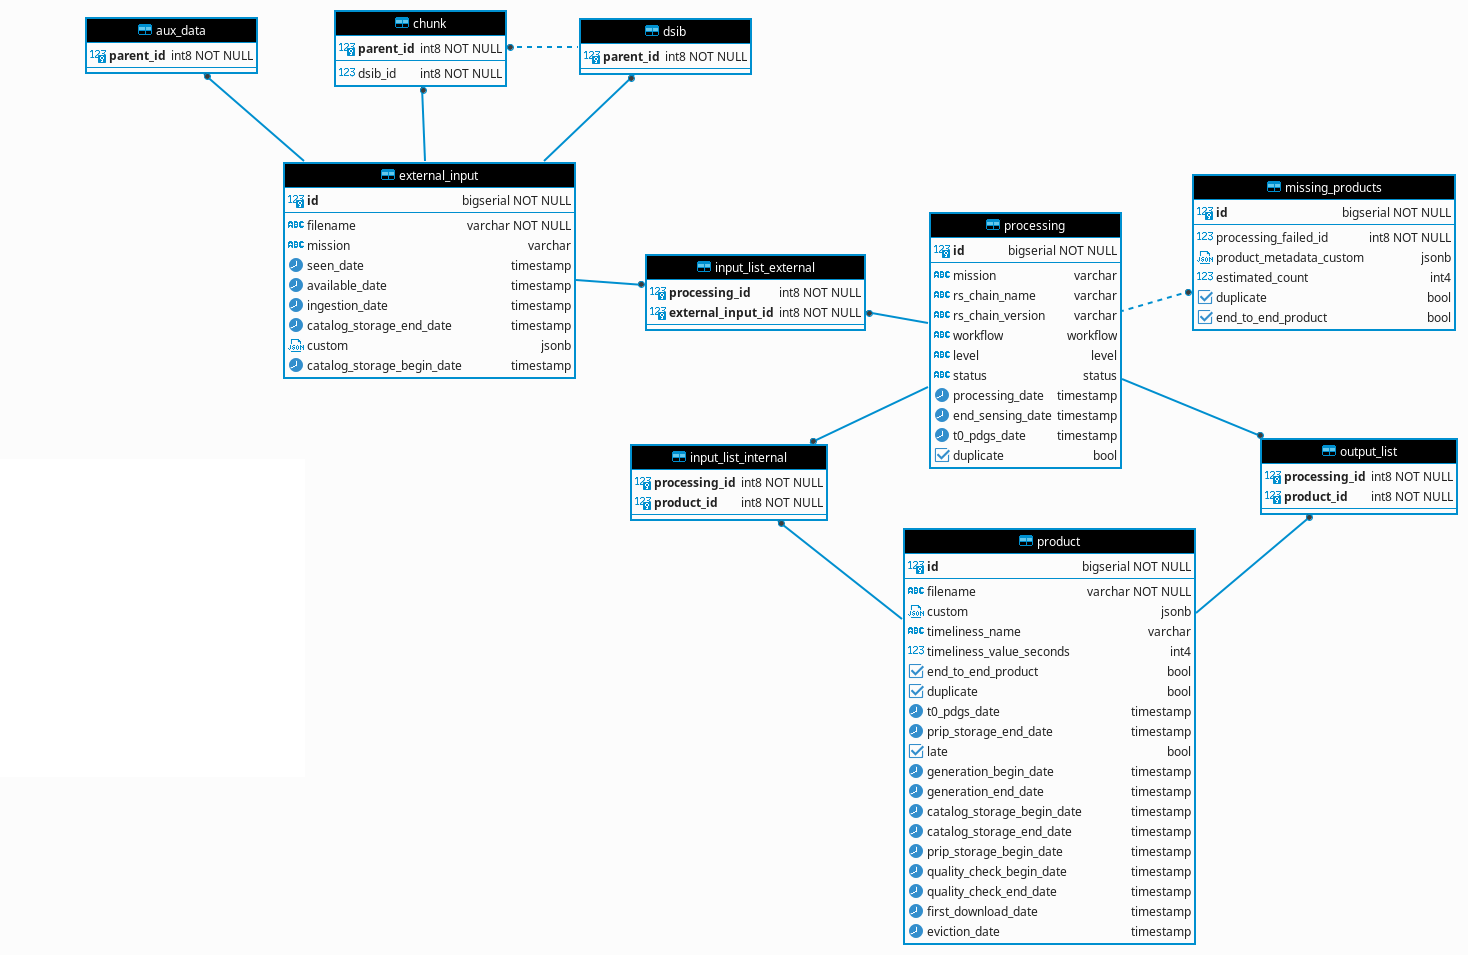
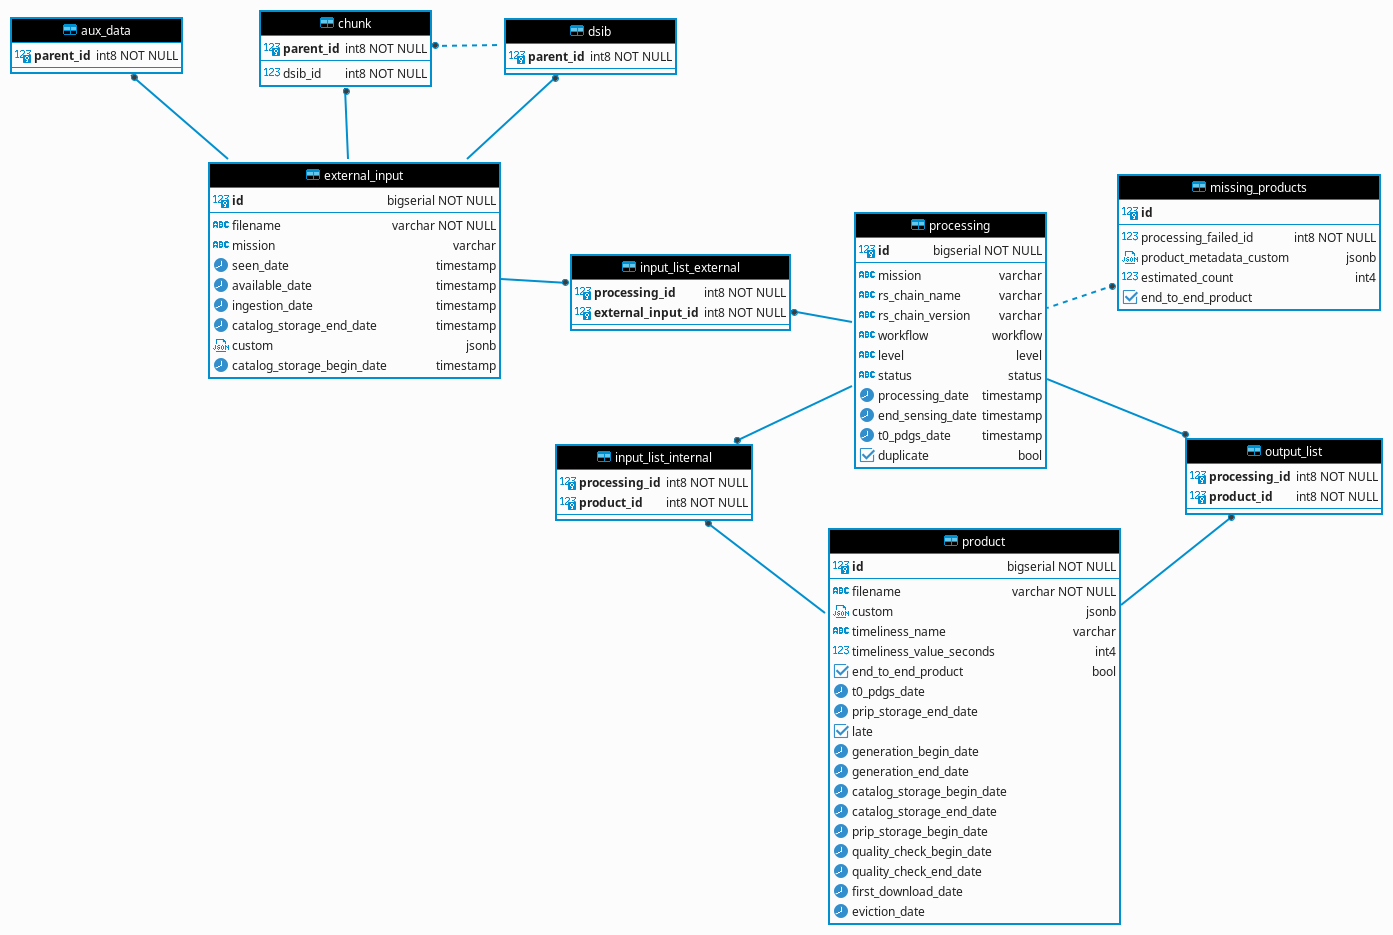
feat(484/485): Set last rule to detect duplicate processing

diff --git a/trace-processor/applications/sink/trace-ingestor/src/main/java/eu/csgroup/coprs/monitoring/traceingestor/TraceIngestorSink.java b/trace-processor/applications/sink/trace-ingestor/src/main/java/eu/csgroup/coprs/monitoring/traceingestor/TraceIngestorSink.java
@@ -14,6 +14,7 @@ import org.slf4j.MDC;
 import org.springframework.beans.PropertyAccessorFactory;
 import org.springframework.messaging.Message;
 
+import java.lang.management.ManagementFactory;
 import java.time.Duration;
 import java.time.Instant;
 import java.util.function.Consumer;
@@ -34,7 +35,8 @@ public class TraceIngestorSink implements Consumer<Message<FilteredTrace>> {
 
     @Override
     public void accept(Message<FilteredTrace> message) {
-        final Instant start = Instant.now();
+        final var mxBean = ManagementFactory.getThreadMXBean();
+        long cpuTimeStart = mxBean.getThreadCpuTime(Thread.currentThread().getId());
 
         final var filteredTrace = message.getPayload();
         // Find mapping associated to filter name
@@ -51,11 +53,13 @@ public class TraceIngestorSink implements Consumer<Message<FilteredTrace>> {
             final var ingestionConfig = ingestionStrategy.get();
             ingest(filteredTrace.getLog(), ingestionConfig);
 
-            final var duration = Duration.between(start, Instant.now());
-            try (MDC.MDCCloseable ignored = MDC.putCloseable("log_param", ",\"ingestion_duration_in_ms\":%s".formatted(duration.toMillis()))) {
+            final var cpuTimedurationNs = mxBean.getThreadCpuTime(Thread.currentThread().getId()) - cpuTimeStart;
+            try (
+                    MDC.MDCCloseable ignored = MDC.putCloseable("log_param", ",\"ingestion_duration_in_ms\":%s".formatted(cpuTimedurationNs/1000000))
+            ) {
                 log.info("Trace ingestion with configuration '%s' done (took %s ms)%n%s".formatted(
                         ingestionConfig.getName(),
-                        duration.toMillis(),
+                        cpuTimedurationNs/1000000,
                         filteredTrace.getLog()));
             }
         }

diff --git a/trace-processor/common/src/test/java/eu/csgroup/coprs/monitoring/common/EntityTest.java b/trace-processor/common/src/test/java/eu/csgroup/coprs/monitoring/common/EntityTest.java
@@ -138,7 +138,6 @@ public class EntityTest {
         missingProducts.setProcessing(getProcessing());
         missingProducts.setProductMetadataCustom(new AutoMergeableMap());
         missingProducts.setEstimatedCount(10);
-        missingProducts.setDuplicate(false);
         missingProducts.setEndToEndProduct(false);
 
         final var allArgsConstructor = new MissingProducts(
@@ -146,7 +145,6 @@ public class EntityTest {
                 getProcessing(),
                 new AutoMergeableMap(),
                 10,
-                false,
                 false
         );
 
@@ -226,7 +224,6 @@ public class EntityTest {
                 "Timeliness name",
                 10,
                 false,
-                false,
                 Instant.parse("2022-10-13T10:23:59.00Z"),
                 Instant.parse("2022-10-14T10:23:59.00Z"),
                 Instant.parse("2022-10-15T10:23:59.00Z"),
@@ -295,7 +292,6 @@ public class EntityTest {
         product.setTimelinessName("Timeliness name");
         product.setTimelinessValueSeconds(10);
         product.setEndToEndProduct(false);
-        product.setDuplicate(false);
         product.setT0PdgsDate(Instant.parse("2022-10-13T10:23:59.00Z"));
         product.setGenerationBeginDate(Instant.parse("2022-10-14T10:23:59.00Z"));
         product.setGenerationEndDate(Instant.parse("2022-10-15T10:23:59.00Z"));

diff --git a/trace-processor/applications/sink/trace-ingestor/src/main/java/eu/csgroup/coprs/monitoring/traceingestor/processor/ProcessorOrchestrator.java b/trace-processor/applications/sink/trace-ingestor/src/main/java/eu/csgroup/coprs/monitoring/traceingestor/processor/ProcessorOrchestrator.java
@@ -166,7 +166,12 @@ public class ProcessorOrchestrator implements Function<EntityIngestor, List<Defa
             while(matcher.find()) {
                 final var rawPath = matcher.group(1);
 
-                values.add(getValueForDuplicateProcess(initialQuery, matcher.group(0), rawPath, processedEntities));
+                final var value = getValueForDuplicateProcess(initialQuery, matcher.group(0), rawPath, processedEntities);
+                if (value.isEmpty()) {
+                    log.warn("Cancel duplicate processing because all conditions are not met (no value found or null value for %s)".formatted(rawPath));
+                    return;
+                }
+                values.add(value);
 
                 inputQuery = inputQuery.replace(matcher.group(0), "?" + index++);
 
@@ -211,6 +216,7 @@ public class ProcessorOrchestrator implements Function<EntityIngestor, List<Defa
                     .flatMap(List::stream)
                     .map(entityProcessing -> BeanAccessor.from(PropertyAccessorFactory.forBeanPropertyAccess(entityProcessing.getEntity())))
                     .map(bean -> bean.getPropertyValue(new BeanProperty(rawPath)))
+                    .filter(Objects::nonNull)
                     .toList();
     }
 }

diff --git a/trace-processor/common/src/main/java/eu/csgroup/coprs/monitoring/common/bean/BeanPropertyRuleGroup.java b/trace-processor/common/src/main/java/eu/csgroup/coprs/monitoring/common/bean/BeanPropertyRuleGroup.java
@@ -32,7 +32,7 @@ public class BeanPropertyRuleGroup implements Predicate<BeanAccessor> {
         final Function<BeanPropertyRule, Boolean> applyRule = rule -> this.checkRule(rule, beanAccessor);
 
         if (rules == null || rules.isEmpty()) {
-            throw new UnsupportedOperationException("Filter '%s' with empty rules is not supported");
+            return true;
         }
 
         return rules.stream()
@@ -46,10 +46,10 @@ public class BeanPropertyRuleGroup implements Predicate<BeanAccessor> {
         try {
             value = beanAccessor.getPropertyValue(rule.getProperty());
             if (value != null) {
-                log.debug("Compare %s %s to configured value %s".formatted(value, rule.getProperty(), rule.getRawValue()));
+                log.trace("Compare %s %s to configured value %s".formatted(value, rule.getProperty(), rule.getRawValue()));
                 match = rule.test(value);
             } else {
-                log.debug("No value found %s".formatted(rule.getProperty()));
+                log.trace("No value found %s".formatted(rule.getProperty()));
             }
         } catch (InvalidPropertyException e) {
             log.trace(e.getMessage());

diff --git a/trace-processor/common/src/main/java/eu/csgroup/coprs/monitoring/common/datamodel/entities/Processing.java b/trace-processor/common/src/main/java/eu/csgroup/coprs/monitoring/common/datamodel/entities/Processing.java
@@ -1,14 +1,12 @@
 package eu.csgroup.coprs.monitoring.common.datamodel.entities;
 
 import com.vladmihalcea.hibernate.type.basic.PostgreSQLEnumType;
-import com.vladmihalcea.hibernate.type.json.JsonBinaryType;
 import eu.csgroup.coprs.monitoring.common.datamodel.Status;
 import eu.csgroup.coprs.monitoring.common.datamodel.Level;
 import eu.csgroup.coprs.monitoring.common.datamodel.Workflow;
 import lombok.*;
 import org.hibernate.annotations.Type;
 import org.hibernate.annotations.TypeDef;
-import org.hibernate.annotations.TypeDefs;
 
 import javax.persistence.*;
 import java.io.Serial;

diff --git a/trace-processor/common/src/main/java/eu/csgroup/coprs/monitoring/common/datamodel/entities/Product.java b/trace-processor/common/src/main/java/eu/csgroup/coprs/monitoring/common/datamodel/entities/Product.java
@@ -45,8 +45,6 @@ public class Product implements DefaultEntity, Serializable {
 
     private boolean endToEndProduct;
 
-    private boolean duplicate;
-
     @Column(name = "t0_pdgs_date")
     private Instant t0PdgsDate;
 

diff --git a/trace-processor/common/src/main/java/eu/csgroup/coprs/monitoring/common/datamodel/entities/MissingProducts.java b/trace-processor/common/src/main/java/eu/csgroup/coprs/monitoring/common/datamodel/entities/MissingProducts.java
@@ -30,8 +30,6 @@ public class MissingProducts implements DefaultEntity {
 
     private Integer estimatedCount;
 
-    private boolean duplicate;
-
     private boolean endToEndProduct;
 
 

diff --git a/trace-processor/README.md b/trace-processor/README.md
@@ -366,6 +366,7 @@ duplicate_processings:
   - query: processing.id in (select ili.processing_id from input_list_internal ili where ili.product_id in <input_product.id>)
     rules:
       log.trace.header.rs_chain_name: l1c|l1ab|l2
+  - query: processing.id in (select ol.processing_id from output_list ol where ol.product_id in <output_product.id>)
 ```
 
 | input_product                                | rs_chain_name | output_product                               |
@@ -385,6 +386,7 @@ duplicate_processings:
 Available queries are:
 - processing.id in (select ile.processing_id from input_list_external ile where ile.external_input_id in <chunk.id,dsib.id>)
 - processing.id in (select ili.processing_id from input_list_internal ili where ili.product_id in <input_product.id>)
+- processing.id in (select ol.processing_id from output_list ol where ol.product_id in <output_product.id>)
 
 In listed queries, 'input_product' is the alias to identify product used as input of the processing (see [alias](#alias) for further details).
 
